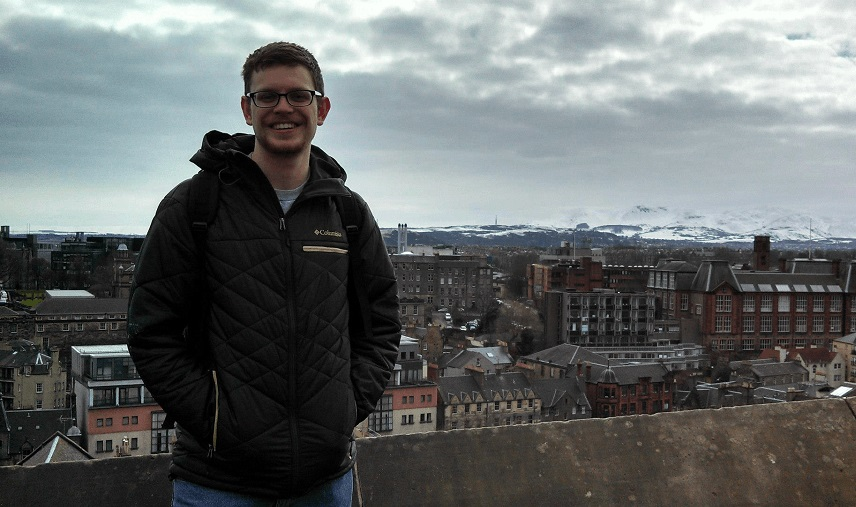
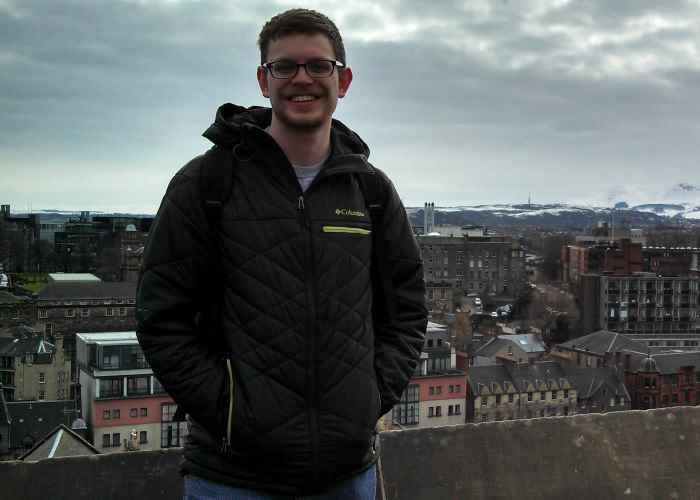
Update image with more quality and compression, specify the image's size in HTML, and include a best linear fit for the negative margin centering the index's photograph for mobile.

diff --git a/index.html b/index.html
@@ -10,7 +10,7 @@ title: Home
 			<h3>Entrepreneur</h3>
 		</header>
 		<div>
-			<img src="images/edinburgh.jpg" itemprop="image">
+			<img src="images/edinburgh.jpg" itemprop="image" width="700" height="500">
 		</div>
 	</section>
 	<section class="welcome">

diff --git a/stylesheets/main.css b/stylesheets/main.css
@@ -340,7 +340,7 @@ section > div > p > img {
 		width: 100%;
 	}
 	#main > div > img {
-		margin-left: -110px;
+		margin-left: calc(100% * .5237 - 291.2px);
 	}
 	section.quarter.link {
 		width: 100%;
